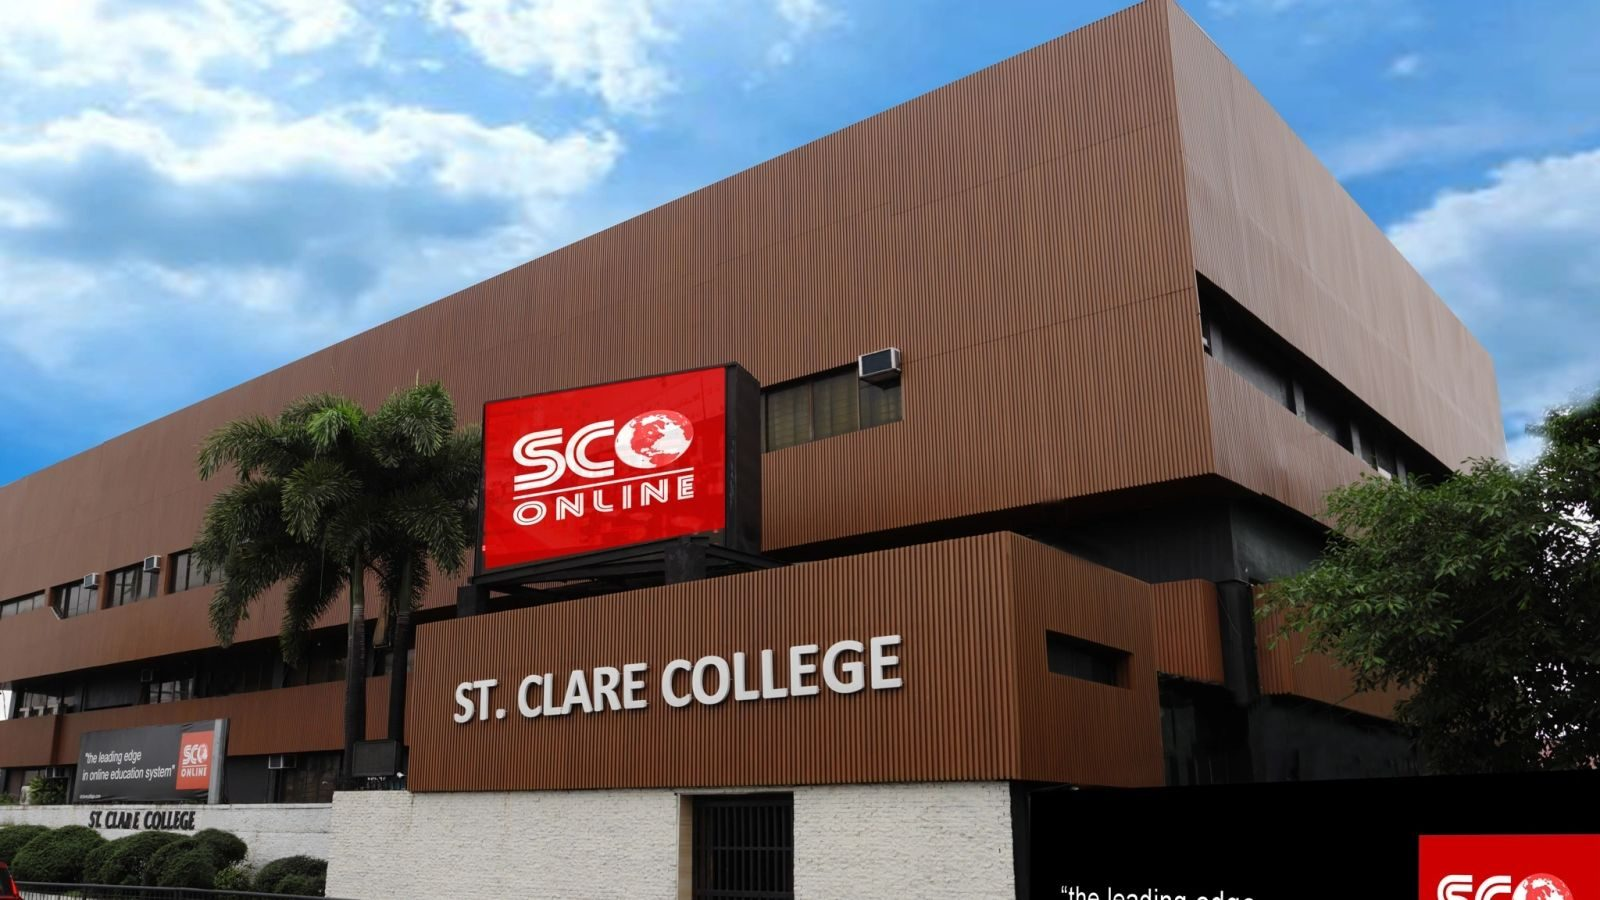
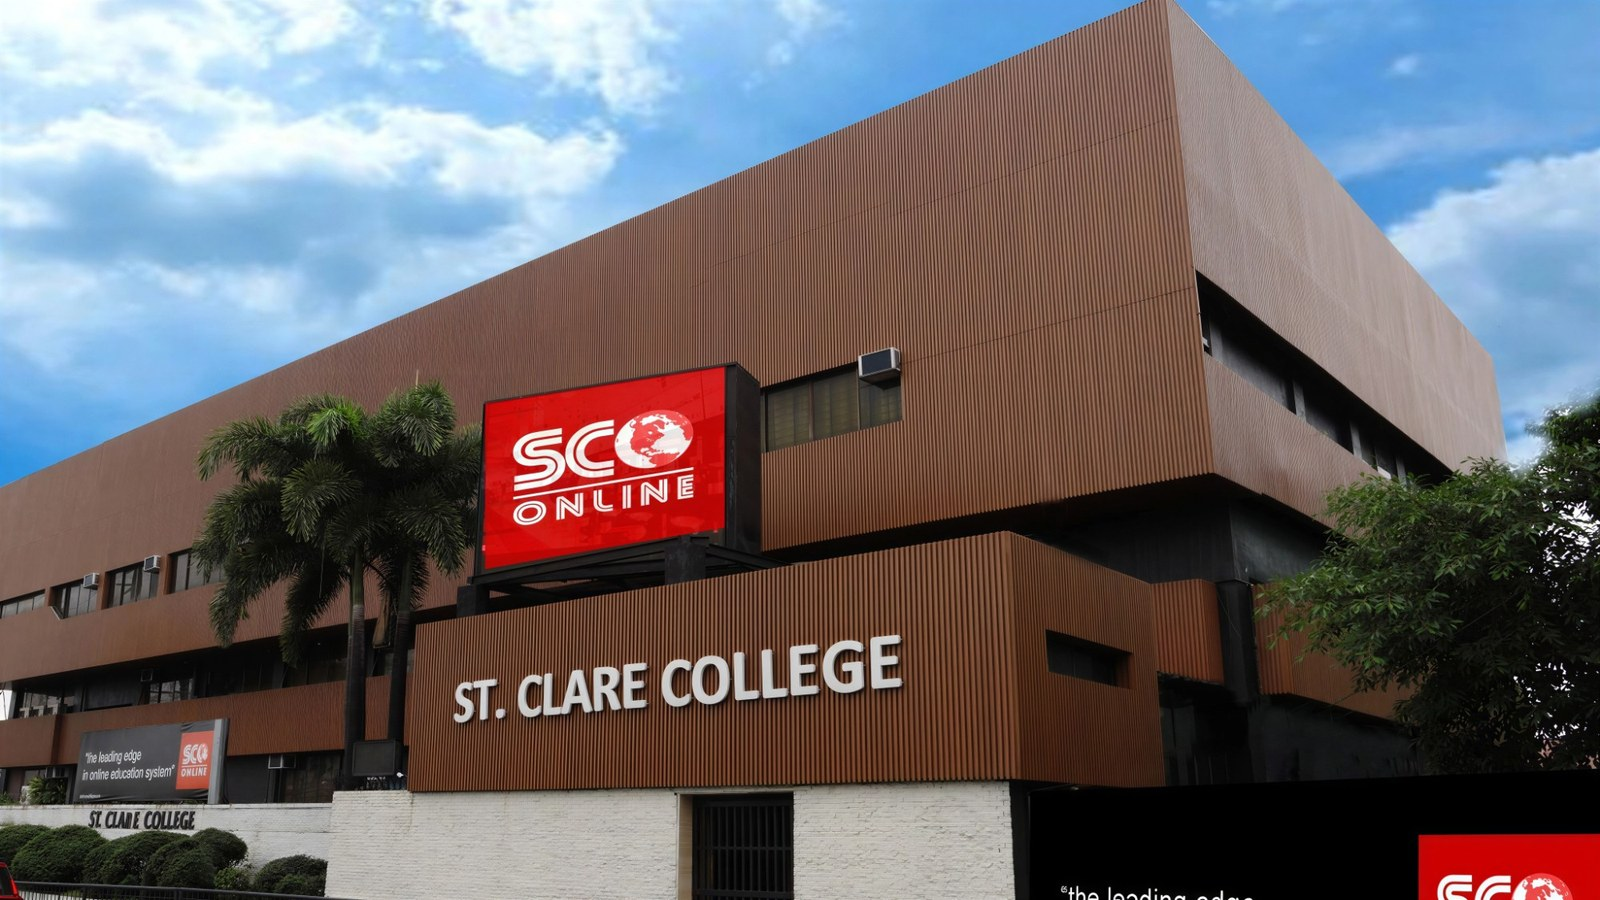
Update campus building and graduates photos (new high-res images)

diff --git a/index.html b/index.html
@@ -49,7 +49,7 @@
 </div>
 <main id="main">
 <section class="hero hero-home">
-  <div class="slides"><div class="slide on" data-cap="St. Clare College, Zabarte Road, Caloocan City"><img src="img/hero/web/hero-01-campus-building.webp" srcset="img/hero/web/hero-01-campus-building-800.webp 800w, img/hero/web/hero-01-campus-building.webp 1600w" sizes="100vw" alt="" width="1600" height="900" fetchpriority="high"></div><div class="slide" data-cap="The Virtual Lab: Predator Thronos stations"><img fetchpriority="low" data-src="img/hero/web/hero-02-virtual-lab.webp" data-srcset="img/hero/web/hero-02-virtual-lab-800.webp 800w, img/hero/web/hero-02-virtual-lab.webp 1800w" sizes="100vw" alt="" width="1800" height="1200" loading="lazy"></div><div class="slide" data-cap="The Stars of 2024: 38th Commencement Exercises"><img fetchpriority="low" data-src="img/hero/web/hero-03-graduates-2024.webp" data-srcset="img/hero/web/hero-03-graduates-2024-800.webp 800w, img/hero/web/hero-03-graduates-2024.webp 1230w" sizes="100vw" alt="" width="1230" height="640" loading="lazy"></div><div class="slide" data-cap="Library and Learning Resource Center"><img fetchpriority="low" data-src="img/hero/web/hero-04-library.webp" data-srcset="img/hero/web/hero-04-library-800.webp 800w, img/hero/web/hero-04-library.webp 1800w" sizes="100vw" alt="" width="1800" height="1200" loading="lazy"></div></div><div class="scrim"></div>
+  <div class="slides"><div class="slide on" data-cap="St. Clare College, Zabarte Road, Caloocan City"><img src="img/hero/web/hero-01-campus-building.webp" srcset="img/hero/web/hero-01-campus-building-800.webp 800w, img/hero/web/hero-01-campus-building.webp 2000w" sizes="100vw" alt="" width="2000" height="1125" fetchpriority="high"></div><div class="slide" data-cap="The Virtual Lab: Predator Thronos stations"><img fetchpriority="low" data-src="img/hero/web/hero-02-virtual-lab.webp" data-srcset="img/hero/web/hero-02-virtual-lab-800.webp 800w, img/hero/web/hero-02-virtual-lab.webp 1800w" sizes="100vw" alt="" width="1800" height="1200" loading="lazy"></div><div class="slide" data-cap="The Stars of 2024: 38th Commencement Exercises"><img fetchpriority="low" data-src="img/hero/web/hero-03-graduates-2024.webp" data-srcset="img/hero/web/hero-03-graduates-2024-800.webp 800w, img/hero/web/hero-03-graduates-2024.webp 2000w" sizes="100vw" alt="" width="2000" height="1051" loading="lazy"></div><div class="slide" data-cap="Library and Learning Resource Center"><img fetchpriority="low" data-src="img/hero/web/hero-04-library.webp" data-srcset="img/hero/web/hero-04-library-800.webp 800w, img/hero/web/hero-04-library.webp 1800w" sizes="100vw" alt="" width="1800" height="1200" loading="lazy"></div></div><div class="scrim"></div>
   <div class="wrap"><div class="copy">
     <h1><span class="split-line"><span>The School</span></span><span class="split-line"><span>of Life Skills</span></span></h1>
     <p class="lede">St. Clare College of Caloocan educates learners from Nursery to College, on one campus in Caloocan City and online through St. Clare Online.</p>
